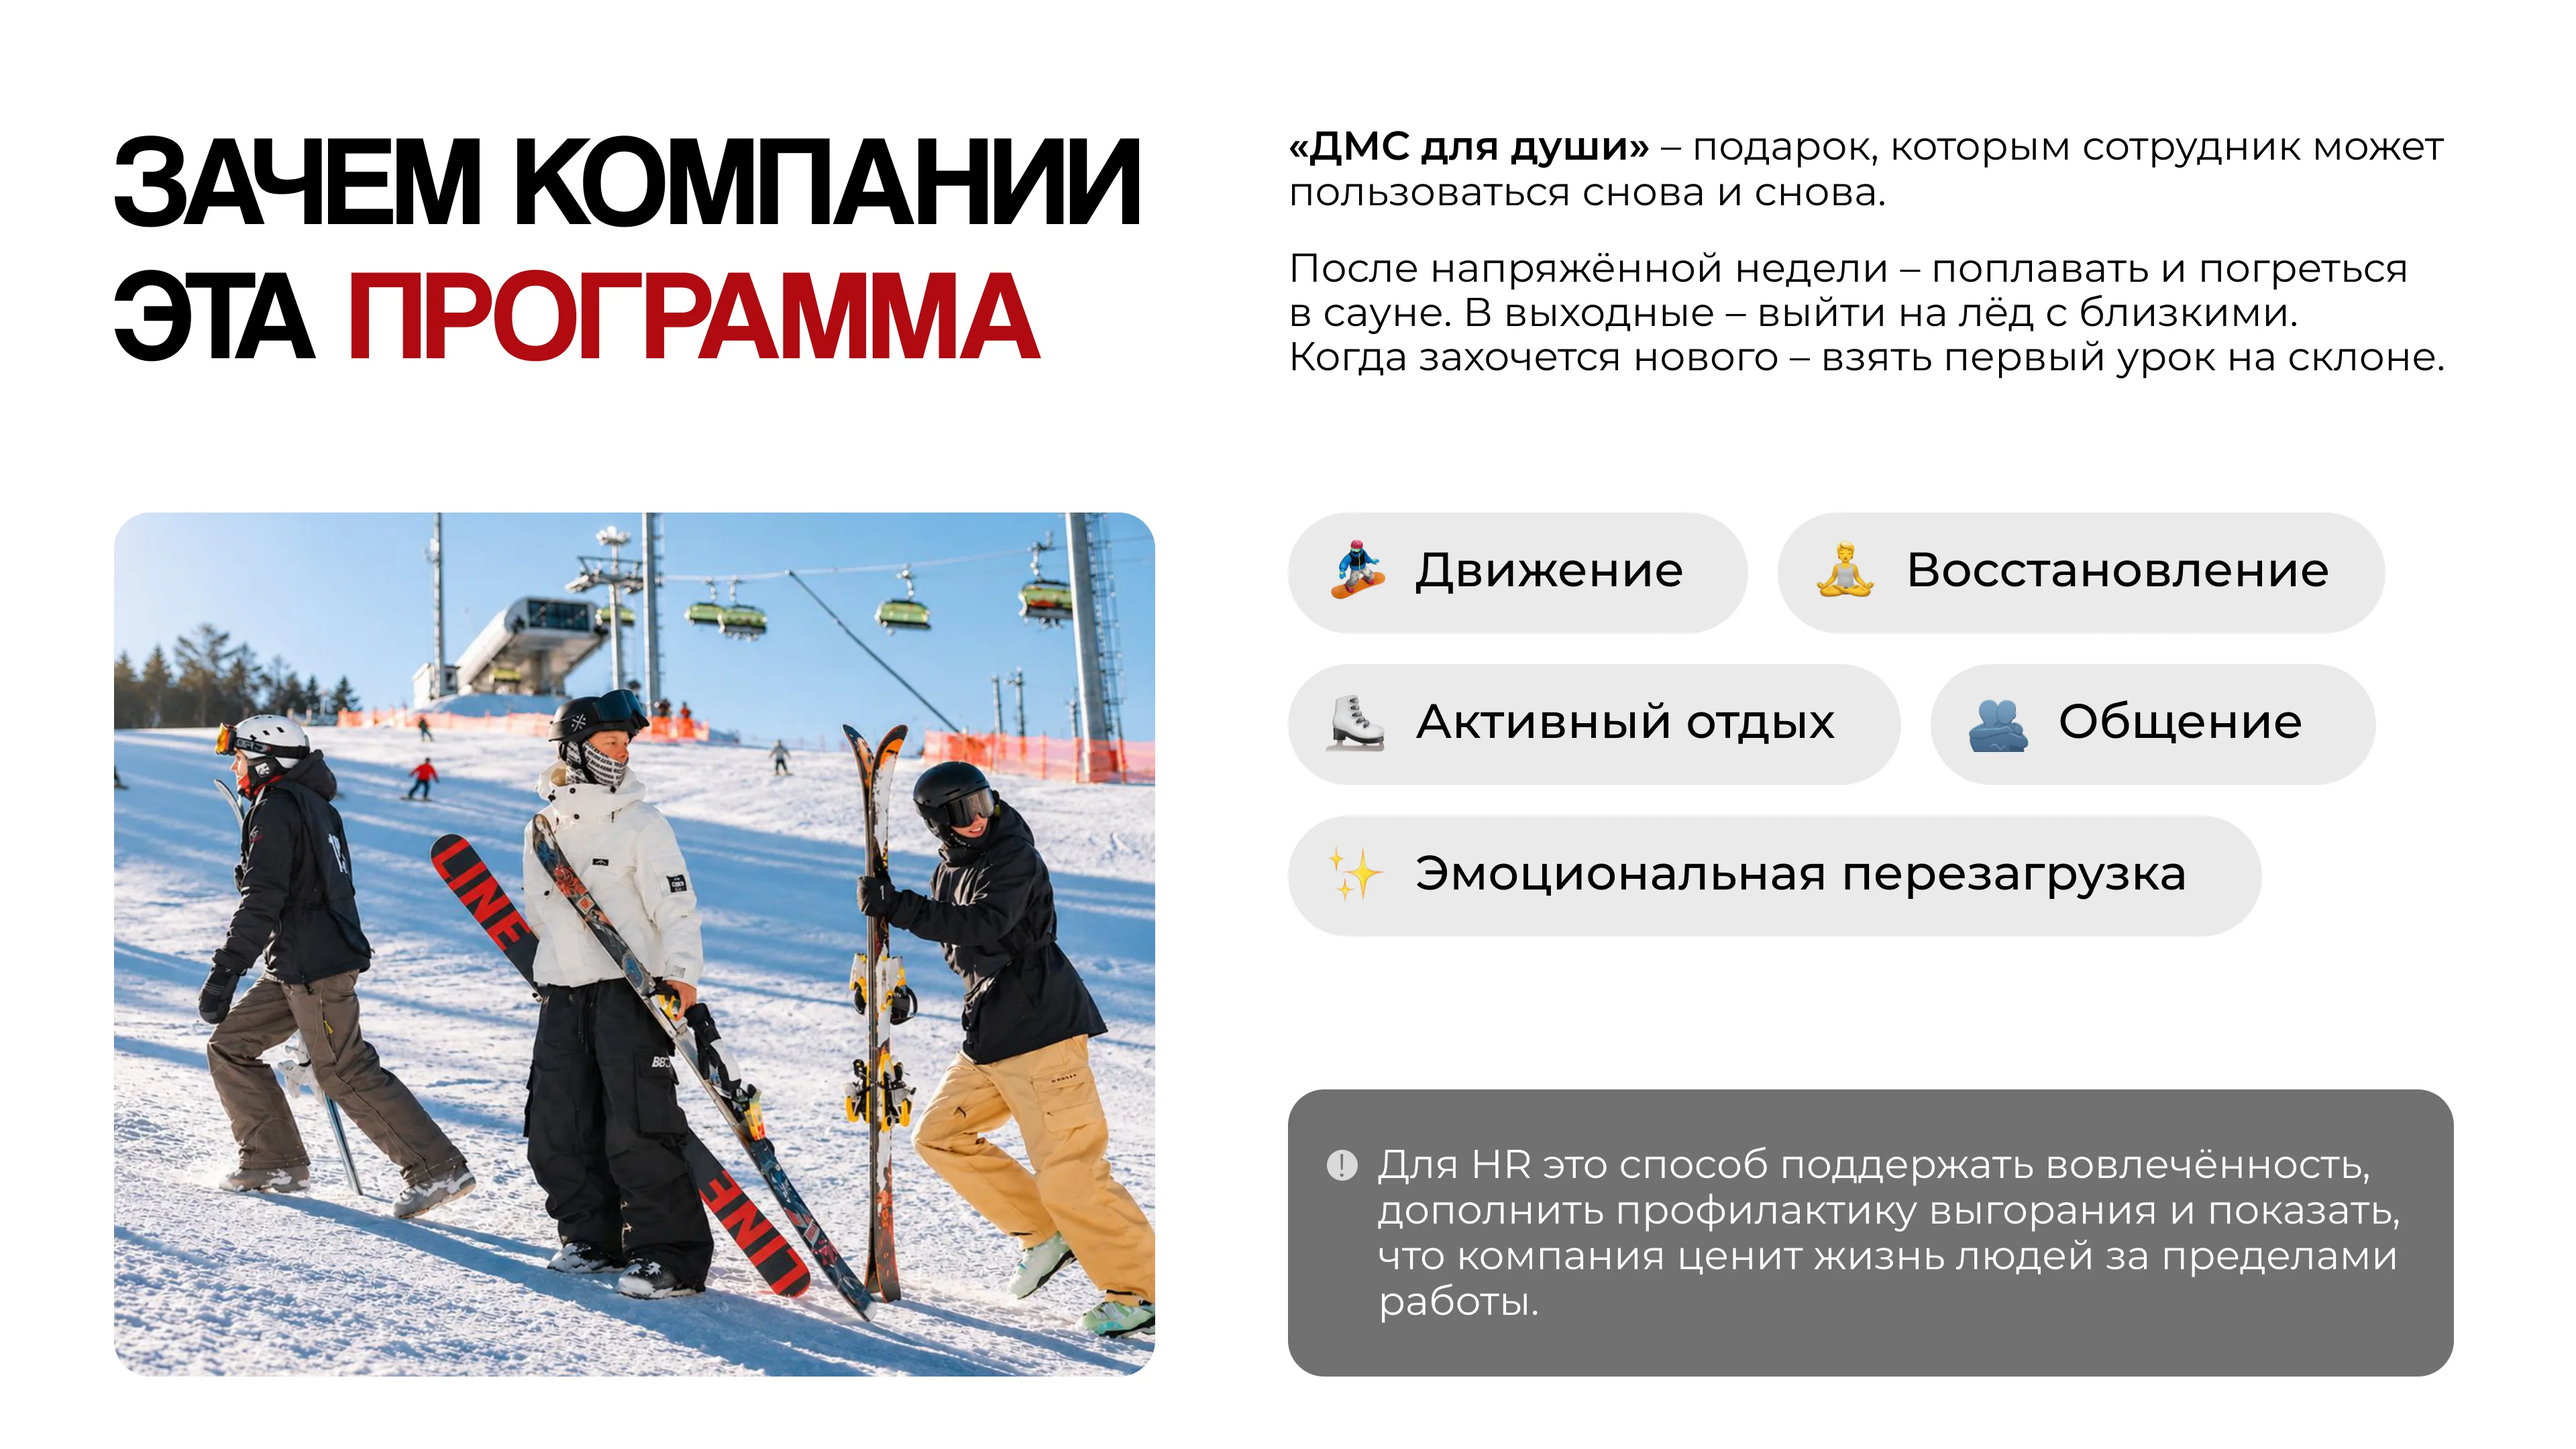
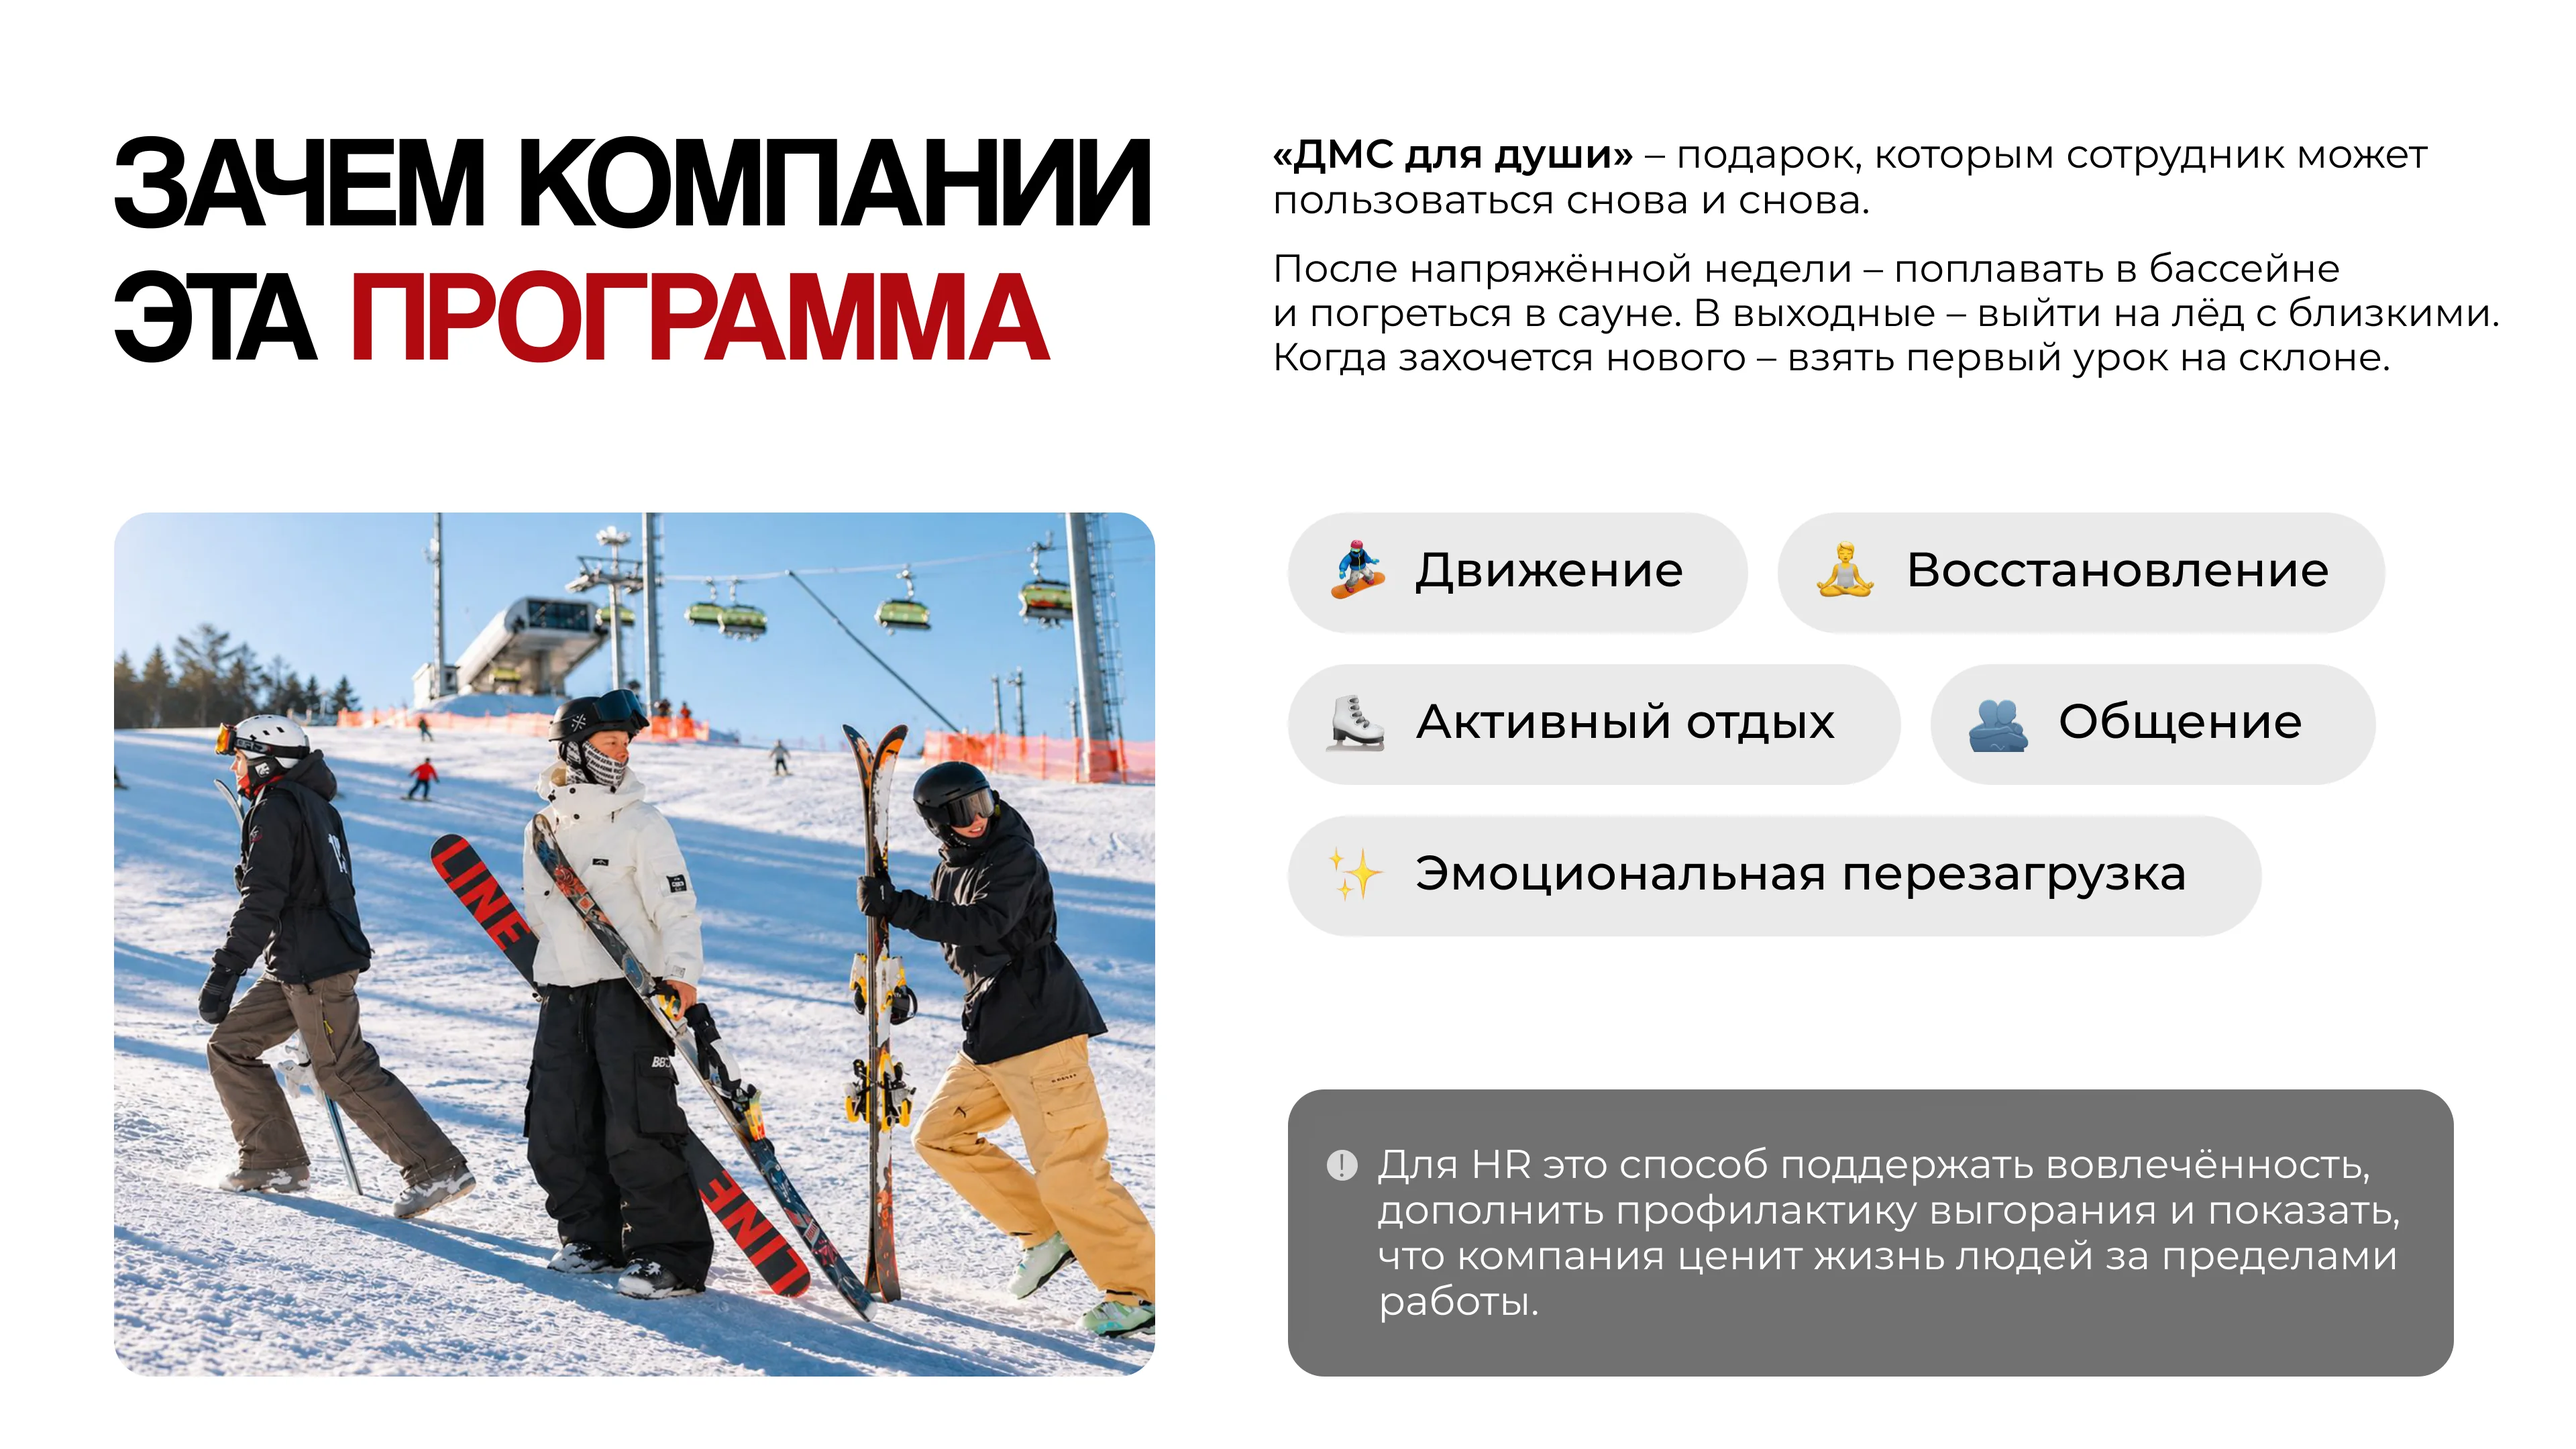
Обновление лендинга 22.11.2026 15:13

diff --git a/index.html b/index.html
@@ -219,7 +219,7 @@
       <div class="hot hot--pill" aria-hidden="true" style="left:7.5521%;top:57.8704%;width:16.6667%;height:5.0926%;--r:1.4583cqw;--i:0"><img src="img/s7-h0.webp" alt=""></div>
       <div class="hot hot--pill" aria-hidden="true" style="left:25.4167%;top:57.9630%;width:19.3229%;height:5.0926%;--r:1.4583cqw;--i:1"><img src="img/s7-h1.webp" alt=""></div>
       <div class="hot hot--pill" aria-hidden="true" style="left:7.5521%;top:64.2593%;width:22.4479%;height:5.0926%;--r:1.4583cqw;--i:2"><img src="img/s7-h2.webp" alt=""></div>
-      <a class="hot hot--cta" href="mailto:event@ohtapark.ru" aria-label="Написать на event@ohtapark.ru" style="left:7.5521%;top:78.3333%;width:19.0625%;height:6.1111%;--r:1.7188cqw;--i:3"><img src="img/s7-h3.webp" alt=""></a>
+      <a class="hot hot--cta" href="mailto:info@ohtapark.ru" aria-label="Написать на info@ohtapark.ru" style="left:7.5521%;top:78.3333%;width:19.0625%;height:6.1111%;--r:1.7188cqw;--i:3"><img src="img/s7-h3.webp" alt=""></a>
       <a class="hot hot--cta" href="tel:+79214003709" aria-label="Позвонить +7 921 400-37-09" style="left:28.7500%;top:78.3333%;width:17.0312%;height:6.1111%;--r:1.7188cqw;--i:4"><img src="img/s7-h4.webp" alt=""></a>
     </div>
   </section>
